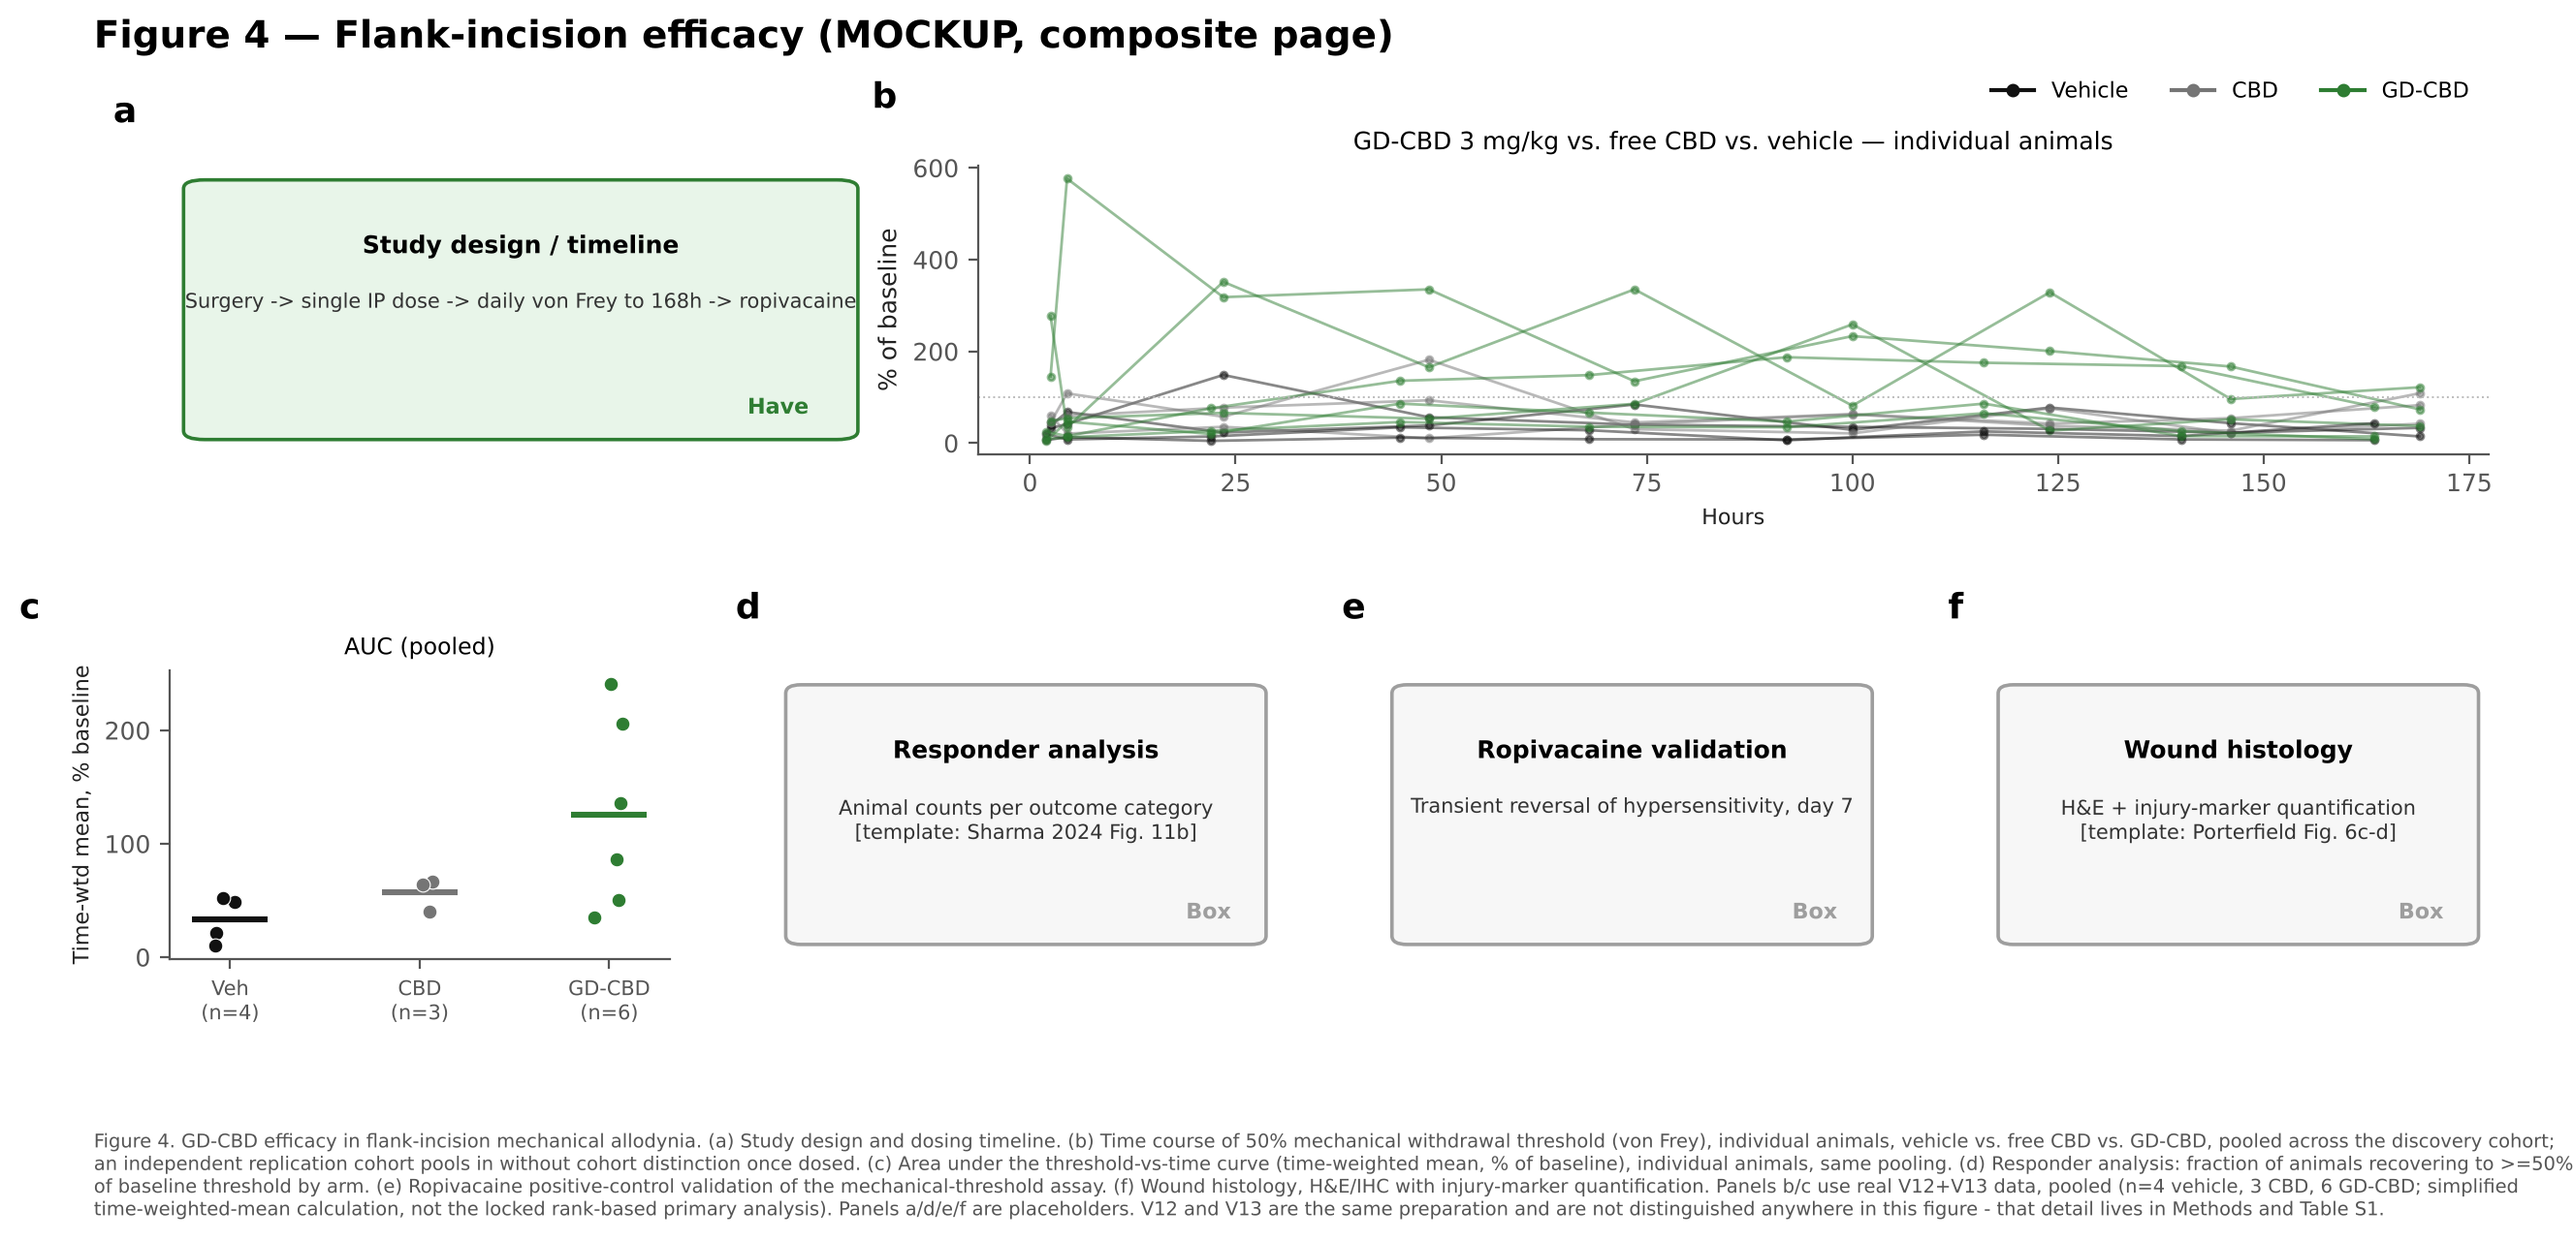
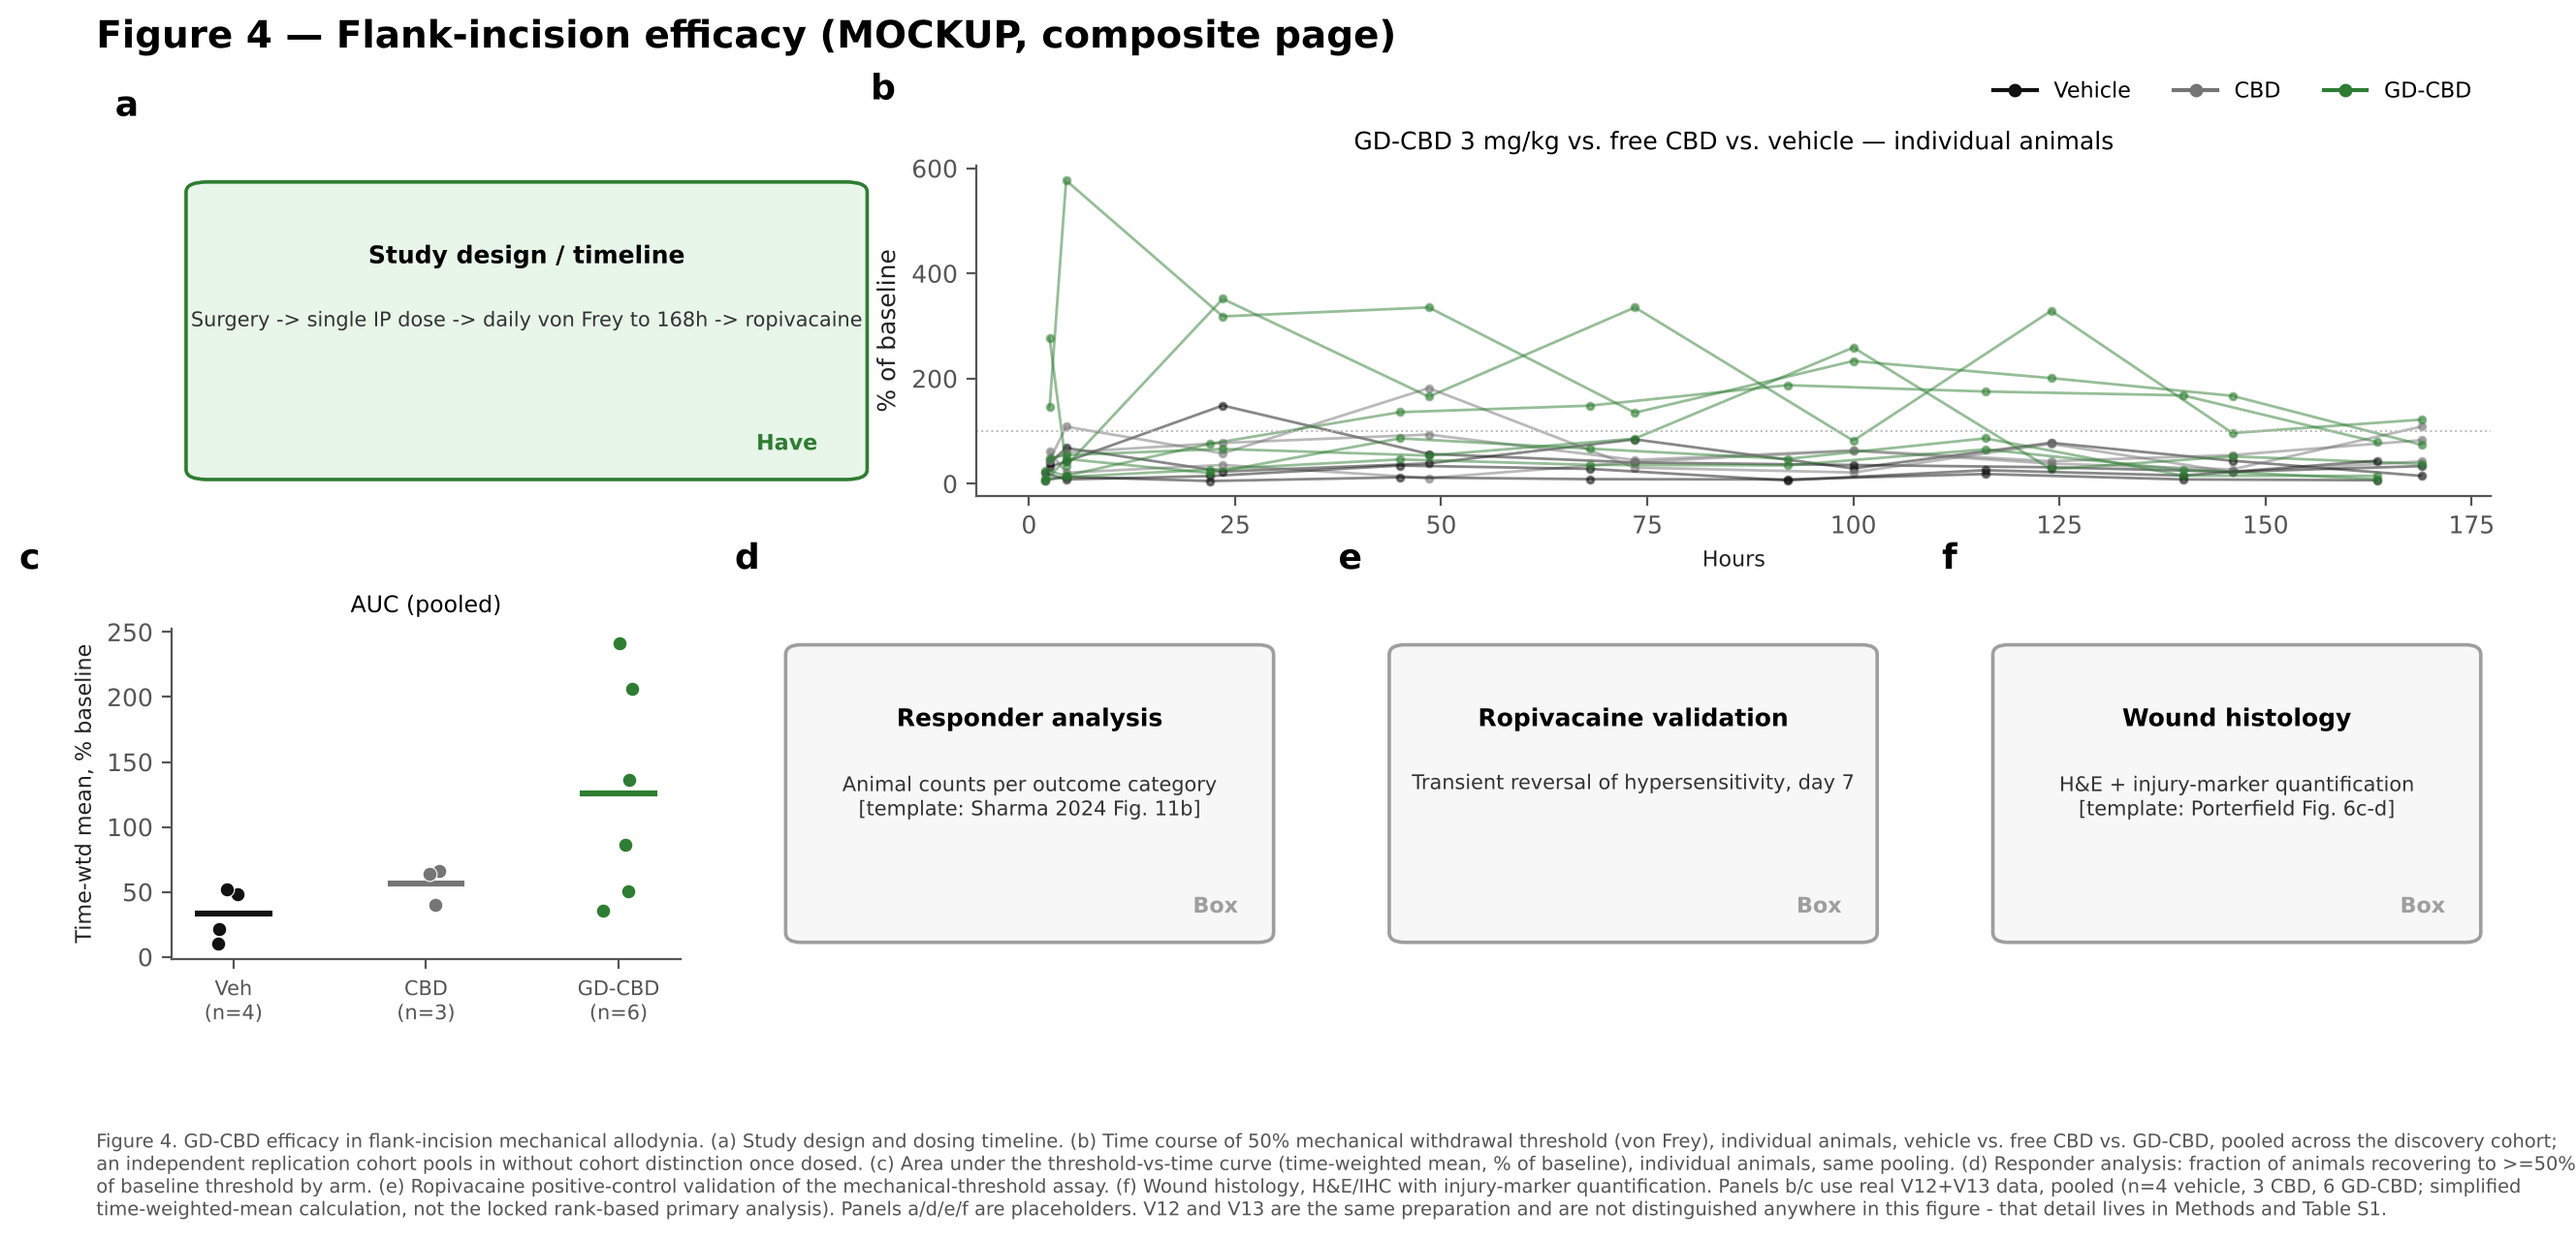
Tighten Figure 4's row/column gaps too (hspace 0.75, wspace 1.1 were the largest in the set)
Missed this one in the first whitespace pass. Reduced hspace 0.75->0.4 and
wspace 1.1->0.9 (0.6 was tried first but collided panel b's rotated
y-axis label into panel a's border - 0.9 clears it while still cutting
the gap noticeably versus the original).

Claude-Session: https://claude.ai/code/session_01QzWRSRZ9CNkGodGiMwM5wp

diff --git a/figures/mockups/build_fig4_composite.py b/figures/mockups/build_fig4_composite.py
@@ -92,7 +92,7 @@ def box_panel(ax, title, desc, status):
 
 fig = plt.figure(figsize=(13, 6.3))
 fig.suptitle("Figure 4 — Flank-incision efficacy (MOCKUP, composite page)", fontsize=14, fontweight="bold", x=0.02, ha="left", y=0.99)
-gs = GridSpec(2, 12, figure=fig, hspace=0.75, wspace=1.1, top=0.87, bottom=0.22, left=0.05, right=0.97)
+gs = GridSpec(2, 12, figure=fig, hspace=0.4, wspace=0.9, top=0.87, bottom=0.22, left=0.05, right=0.97)
 
 # Panel a: schematic
 ax_a = fig.add_subplot(gs[0, 0:4])
